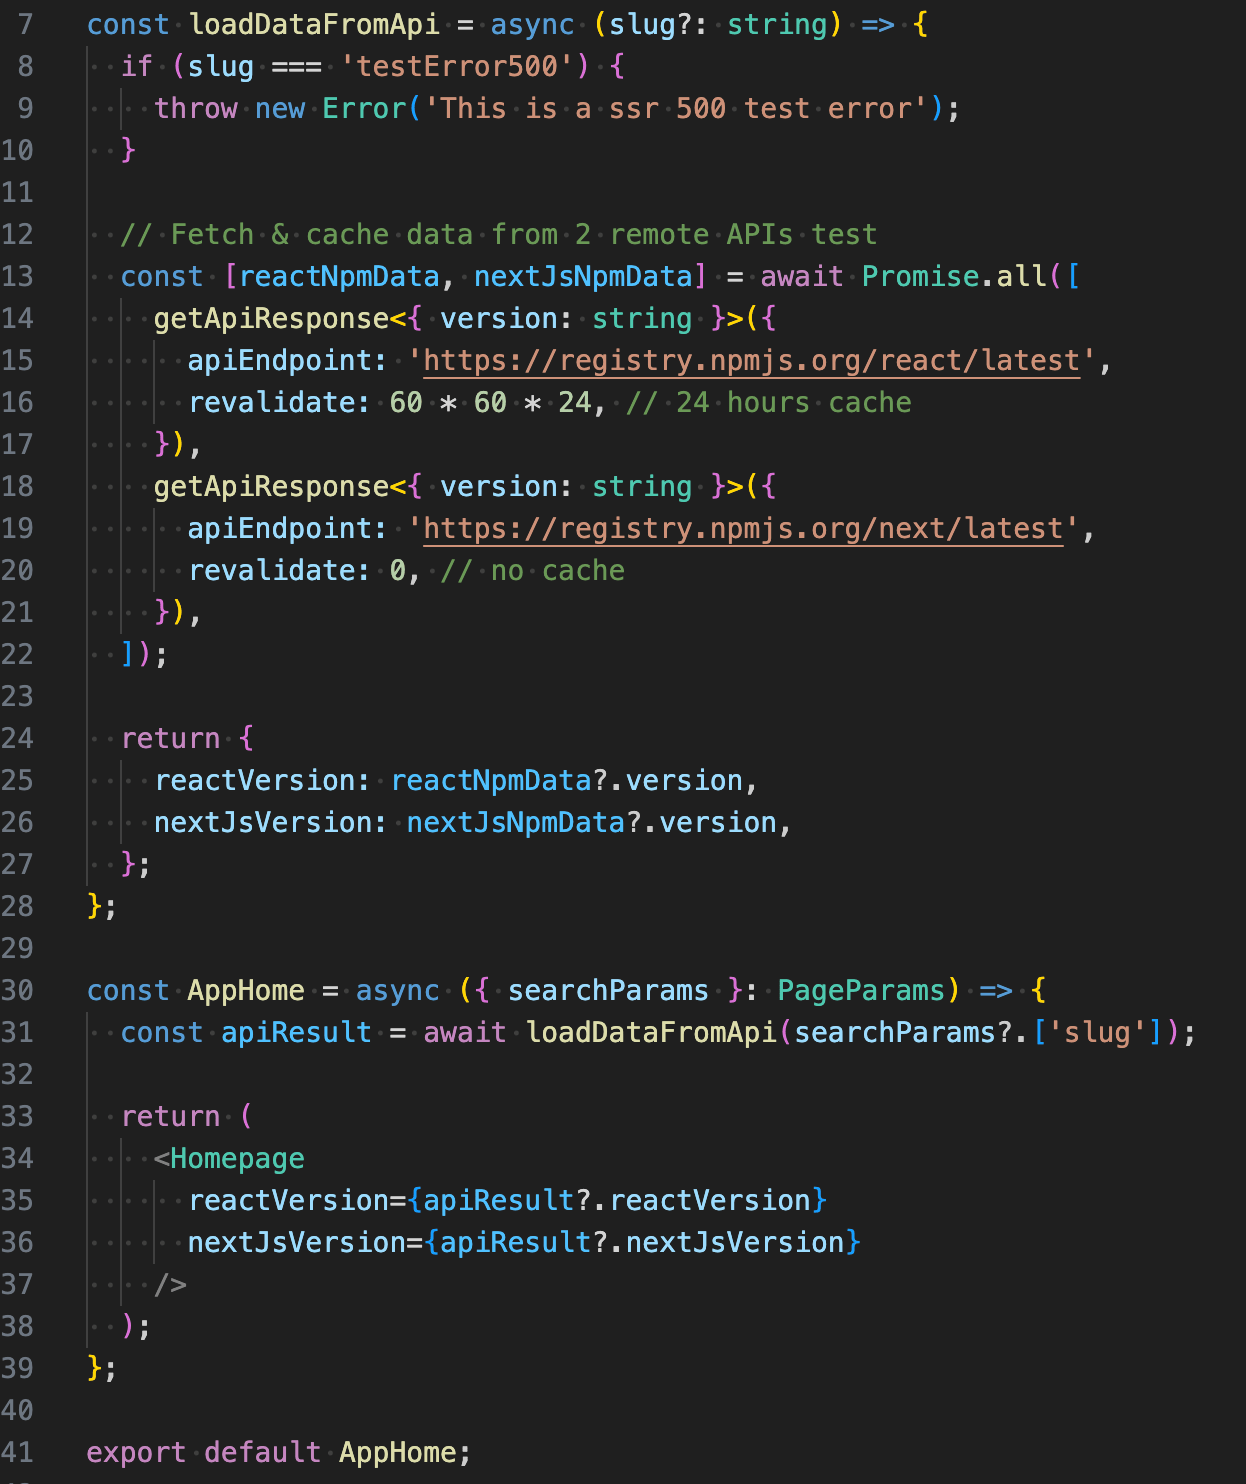
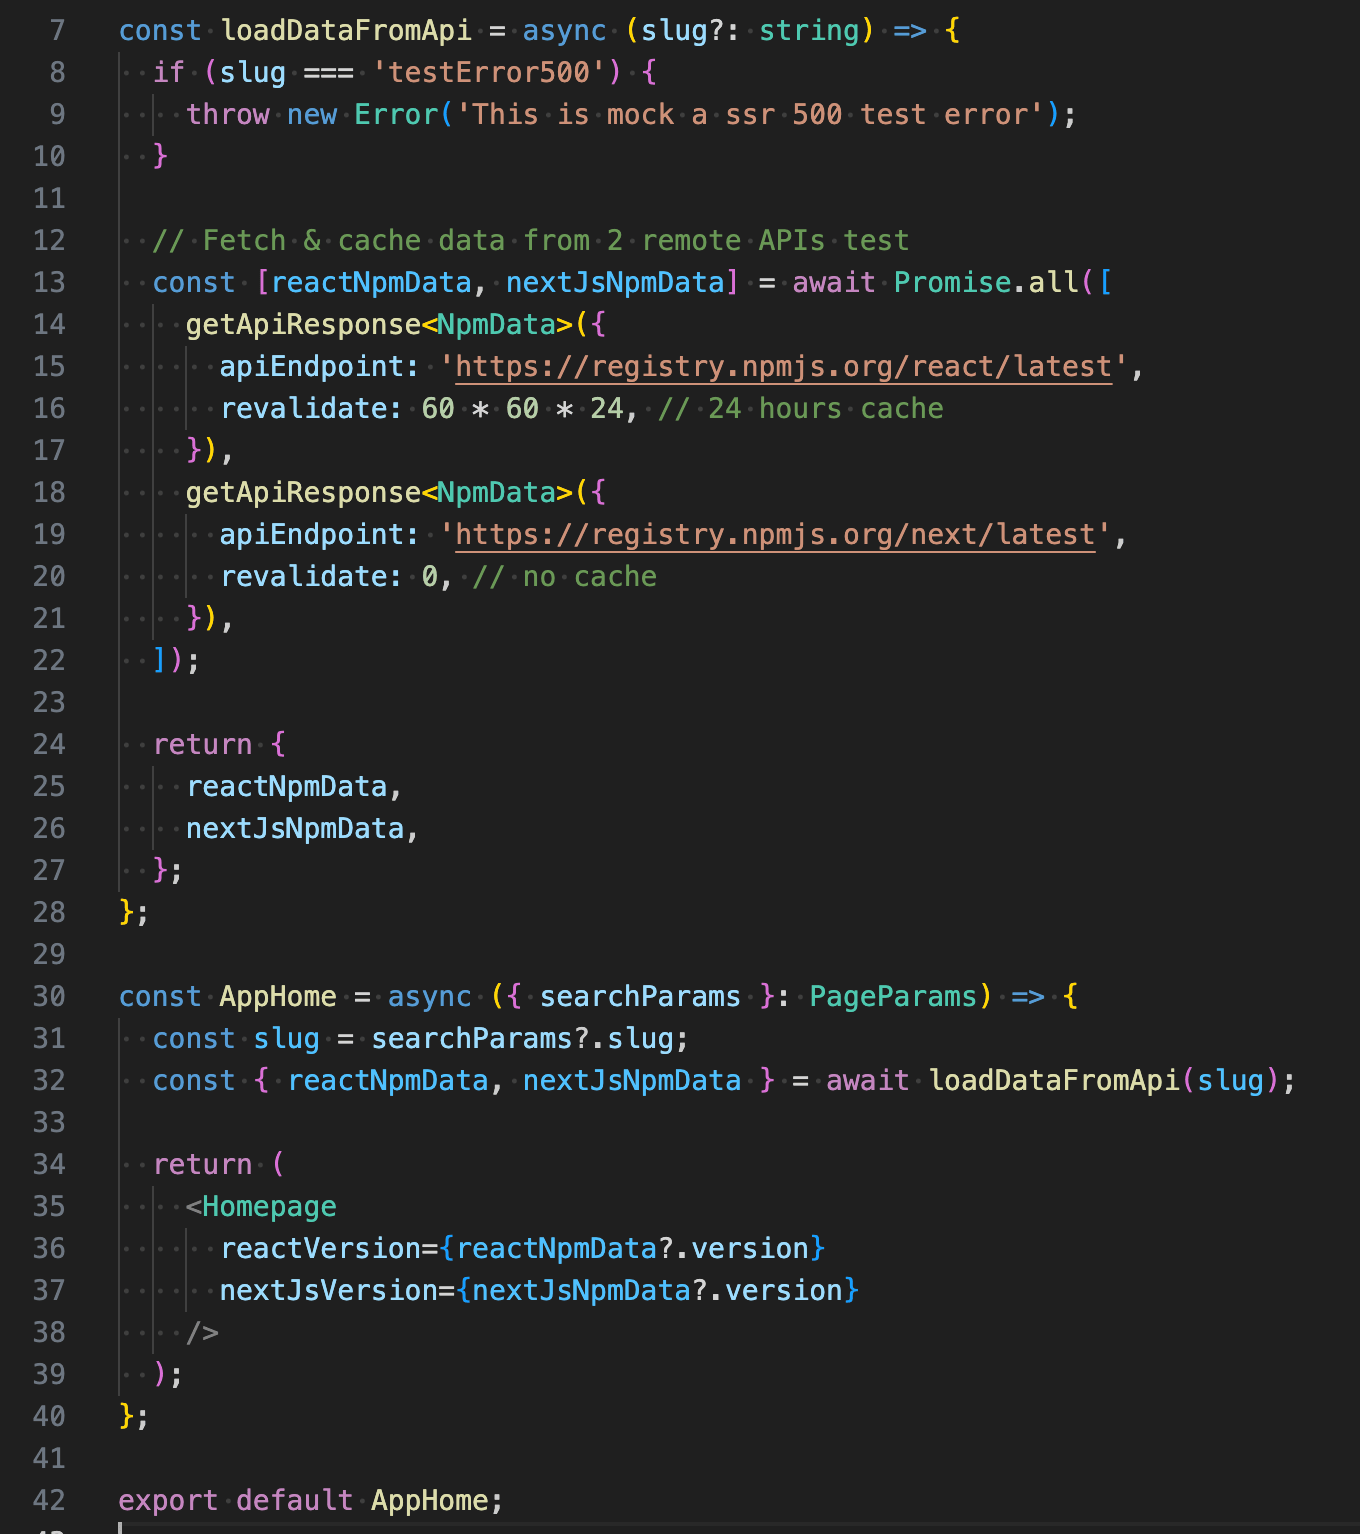
refactor: improve AppHome

Changed region(s): [[0.0, 0.0, 0.9454, 1.0]]

diff --git a/src/app/page.tsx b/src/app/page.tsx
@@ -2,38 +2,39 @@ import Homepage from '@/components/Homepage';
 
 import { getApiResponse } from '@/utils/shared/get-api-response';
 
-import { PageParams } from '@/types';
+import { NpmData, PageParams } from '@/types';
 
 const loadDataFromApi = async (slug?: string) => {
   if (slug === 'testError500') {
-    throw new Error('This is a ssr 500 test error');
+    throw new Error('This is mock a ssr 500 test error');
   }
 
   // Fetch & cache data from 2 remote APIs test
   const [reactNpmData, nextJsNpmData] = await Promise.all([
-    getApiResponse<{ version: string }>({
+    getApiResponse<NpmData>({
       apiEndpoint: 'https://registry.npmjs.org/react/latest',
       revalidate: 60 * 60 * 24, // 24 hours cache
     }),
-    getApiResponse<{ version: string }>({
+    getApiResponse<NpmData>({
       apiEndpoint: 'https://registry.npmjs.org/next/latest',
       revalidate: 0, // no cache
     }),
   ]);
 
   return {
-    reactVersion: reactNpmData?.version,
-    nextJsVersion: nextJsNpmData?.version,
+    reactNpmData,
+    nextJsNpmData,
   };
 };
 
 const AppHome = async ({ searchParams }: PageParams) => {
-  const apiResult = await loadDataFromApi(searchParams?.['slug']);
+  const slug = searchParams?.slug;
+  const { reactNpmData, nextJsNpmData } = await loadDataFromApi(slug);
 
   return (
     <Homepage
-      reactVersion={apiResult?.reactVersion}
-      nextJsVersion={apiResult?.nextJsVersion}
+      reactVersion={reactNpmData?.version}
+      nextJsVersion={nextJsNpmData?.version}
     />
   );
 };

diff --git a/src/app/error.tsx b/src/app/error.tsx
@@ -24,6 +24,7 @@ export default function Error({
           <WarningIcon />
           <h1>Oops, something went wrong!</h1>
           <h5>change this in app/error.tsx</h5>
+          <h4>{error.message}</h4>
           <Box sx={{ m: 5 }}>
             <Button onClick={reset}>Try again</Button>
           </Box>

diff --git a/src/types/index.ts b/src/types/index.ts
@@ -2,3 +2,7 @@ export interface PageParams {
   params?: { id?: string };
   searchParams?: { [key: string]: string | undefined };
 }
+
+export interface NpmData {
+  version: string;
+}
